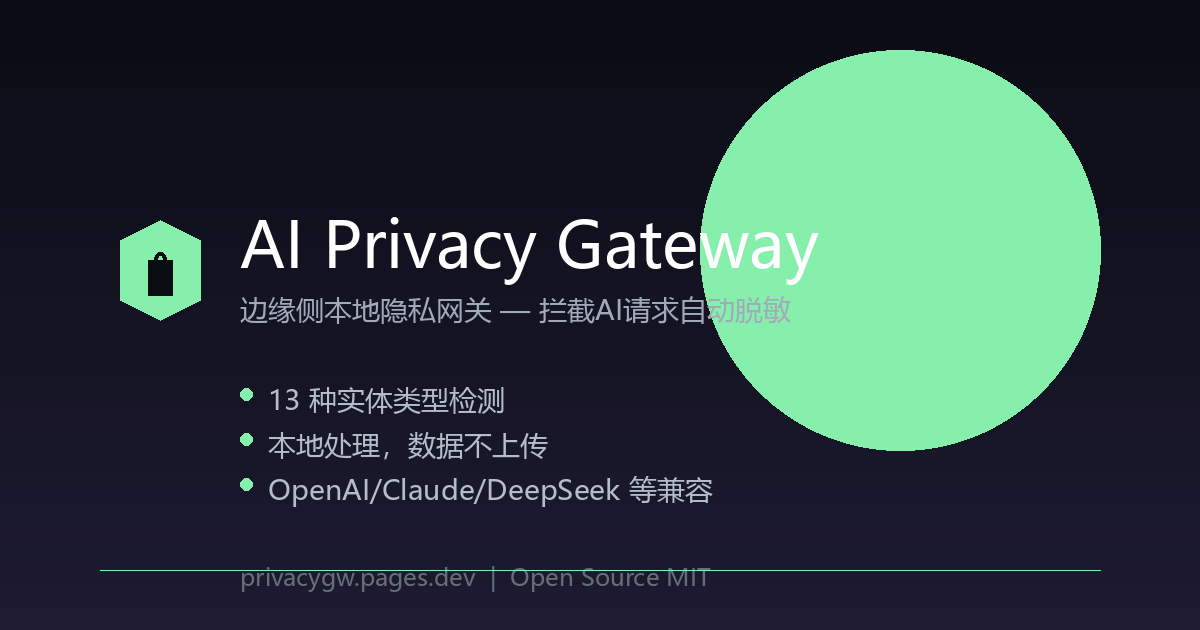
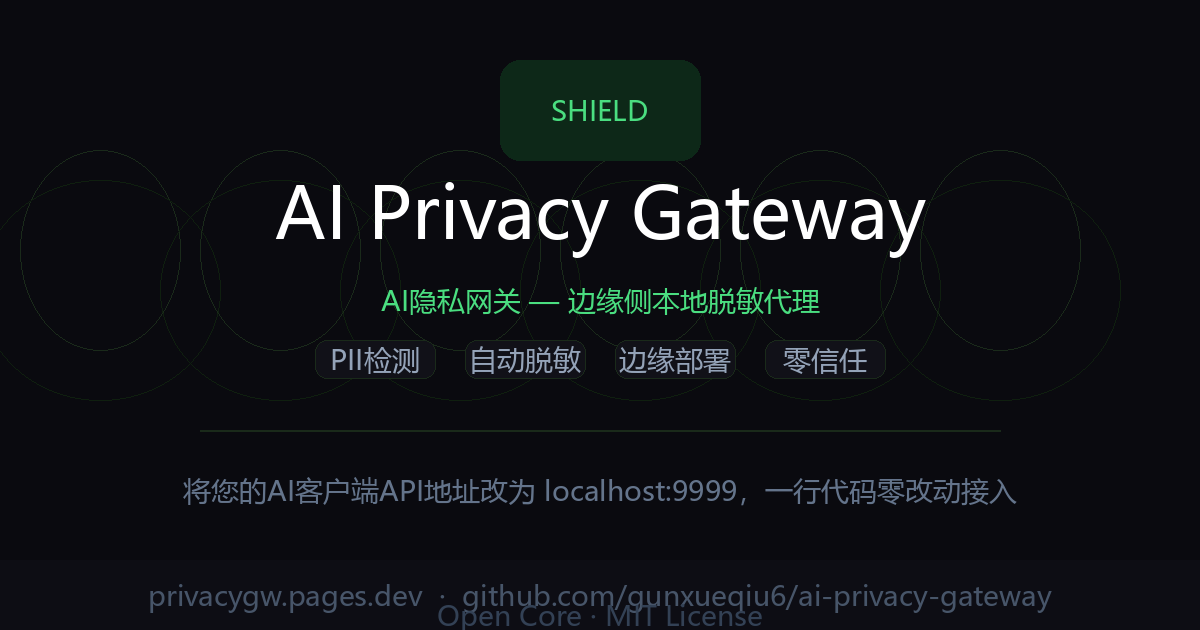
fix: NER reflection in /api/entities + XSS-safe admin panel + og-image
- /api/entities now reflects actual HAS_NER availability per entity type
- PER/LOC/ORG entities use conditional engine badge (ner/regex/unavailable)
- admin.html: replaced innerHTML with textContent + DOM construction for
  keyword list and entity table (XSS prevention)
- added og-image.png (1200x630) for social sharing preview

diff --git a/static/admin.html b/static/admin.html
@@ -423,11 +423,18 @@
                 const resp = await authFetch('/admin/keywords');
                 const data = await resp.json();
                 const list = document.getElementById('keywords-list');
-                list.innerHTML = '';
+                while (list.firstChild) list.removeChild(list.firstChild);
                 data.keywords.forEach(kw => {
                     const item = document.createElement('div');
                     item.className = 'keyword-item';
-                    item.innerHTML = `<span>${kw}</span><span class="delete" onclick="deleteKeyword('${kw}')">×</span>`;
+                    const span = document.createElement('span');
+                    span.textContent = kw;
+                    const del = document.createElement('span');
+                    del.className = 'delete';
+                    del.textContent = '×';
+                    del.addEventListener('click', () => deleteKeyword(kw));
+                    item.appendChild(span);
+                    item.appendChild(del);
                     list.appendChild(item);
                 });
             } catch (e) { console.error('获取关键词失败:', e); }
@@ -470,16 +477,32 @@
                 const resp = await fetch('/api/entities');
                 const data = await resp.json();
                 const tbody = document.getElementById('entity-table-body');
-                tbody.innerHTML = '';
-                
+                while (tbody.firstChild) tbody.removeChild(tbody.firstChild);
+
                 data.entities.forEach(entity => {
                     const row = document.createElement('tr');
-                    row.innerHTML = `
-                        <td>${entity.type}</td>
-                        <td>${entity.name}</td>
-                        <td>${entity.description}</td>
-                        <td><span style="color:${entity.enabled ? 'var(--accent)' : 'var(--text-secondary)'}">${entity.enabled ? '启用' : '禁用'}</span></td>
-                    `;
+                    const tdType = document.createElement('td');
+                    tdType.textContent = entity.type;
+                    const tdName = document.createElement('td');
+                    tdName.textContent = entity.name;
+                    const tdDesc = document.createElement('td');
+                    tdDesc.textContent = entity.description;
+                    const tdStatus = document.createElement('td');
+                    const statusSpan = document.createElement('span');
+                    statusSpan.textContent = entity.enabled ? '启用' : '禁用';
+                    statusSpan.style.color = entity.enabled ? 'var(--accent)' : 'var(--text-secondary)';
+                    tdStatus.appendChild(statusSpan);
+                    // Show engine info if available
+                    if (entity.engine) {
+                        const engineBadge = document.createElement('span');
+                        engineBadge.textContent = entity.engine;
+                        engineBadge.style.cssText = 'margin-left:8px;font-size:0.75em;opacity:0.6';
+                        tdStatus.appendChild(engineBadge);
+                    }
+                    row.appendChild(tdType);
+                    row.appendChild(tdName);
+                    row.appendChild(tdDesc);
+                    row.appendChild(tdStatus);
                     tbody.appendChild(row);
                 });
             } catch (e) { console.error('获取实体类型失败:', e); }

diff --git a/main.py b/main.py
@@ -334,27 +334,30 @@ async def api_mask_batch(request: Request):
 @app.get("/api/entities")
 async def api_get_entities(request: Request):
     """获取支持的实体类型列表"""
+    from mask_engine import HAS_NER
+
     entities = [
-        {"type": "PII_PHONE", "name": "手机号", "description": "中国大陆手机号", "enabled": True},
-        {"type": "PII_EMAIL", "name": "邮箱", "description": "电子邮箱地址", "enabled": True},
-        {"type": "PII_IDCARD", "name": "身份证", "description": "中国身份证号码", "enabled": True},
-        {"type": "PII_BANK", "name": "银行卡", "description": "银行卡号码", "enabled": True},
-        {"type": "PII_PER", "name": "人名", "description": "中文人名", "enabled": True},
-        {"type": "PII_LOC", "name": "地名", "description": "省份、城市、区县等", "enabled": True},
-        {"type": "PII_ORG", "name": "机构名", "description": "公司、组织名称", "enabled": True},
-        {"type": "PII_PLATE", "name": "车牌号", "description": "中国车牌号", "enabled": True},
-        {"type": "PII_IP", "name": "IP地址", "description": "IPv4 地址", "enabled": True},
-        {"type": "PII_URL", "name": "URL", "description": "网址链接", "enabled": True},
-        {"type": "PII_DATE", "name": "日期", "description": "日期格式", "enabled": True},
-        {"type": "PII_AMOUNT", "name": "金额", "description": "货币金额", "enabled": True},
-        {"type": "PII_POSTCODE", "name": "邮编", "description": "邮政编码", "enabled": True},
-        {"type": "PII_CUST", "name": "自定义", "description": "自定义敏感词", "enabled": True},
+        {"type": "PII_PHONE", "name": "手机号", "description": "中国大陆手机号", "enabled": True, "engine": "regex"},
+        {"type": "PII_EMAIL", "name": "邮箱", "description": "电子邮箱地址", "enabled": True, "engine": "regex"},
+        {"type": "PII_IDCARD", "name": "身份证", "description": "中国身份证号码", "enabled": True, "engine": "regex"},
+        {"type": "PII_BANK", "name": "银行卡", "description": "银行卡号码", "enabled": True, "engine": "regex"},
+        {"type": "PII_PER", "name": "人名", "description": "中文人名", "enabled": HAS_NER, "engine": "ner" if HAS_NER else "unavailable"},
+        {"type": "PII_LOC", "name": "地名", "description": "省份、城市、区县等", "enabled": HAS_NER, "engine": "ner" if HAS_NER else "unavailable"},
+        {"type": "PII_ORG", "name": "机构名", "description": "公司、组织名称", "enabled": HAS_NER, "engine": "ner" if HAS_NER else "unavailable"},
+        {"type": "PII_PLATE", "name": "车牌号", "description": "中国车牌号", "enabled": True, "engine": "regex"},
+        {"type": "PII_IP", "name": "IP地址", "description": "IPv4 地址", "enabled": True, "engine": "regex"},
+        {"type": "PII_URL", "name": "URL", "description": "网址链接", "enabled": True, "engine": "regex"},
+        {"type": "PII_DATE", "name": "日期", "description": "日期格式", "enabled": True, "engine": "regex"},
+        {"type": "PII_AMOUNT", "name": "金额", "description": "货币金额", "enabled": True, "engine": "regex"},
+        {"type": "PII_POSTCODE", "name": "邮编", "description": "邮政编码", "enabled": True, "engine": "regex"},
+        {"type": "PII_CUST", "name": "自定义", "description": "自定义敏感词", "enabled": True, "engine": "regex"},
     ]
 
     return {
         "entities": entities,
         "total": len(entities),
-        "version": "Lite"
+        "version": "Lite",
+        "ner_available": HAS_NER
     }
 
 